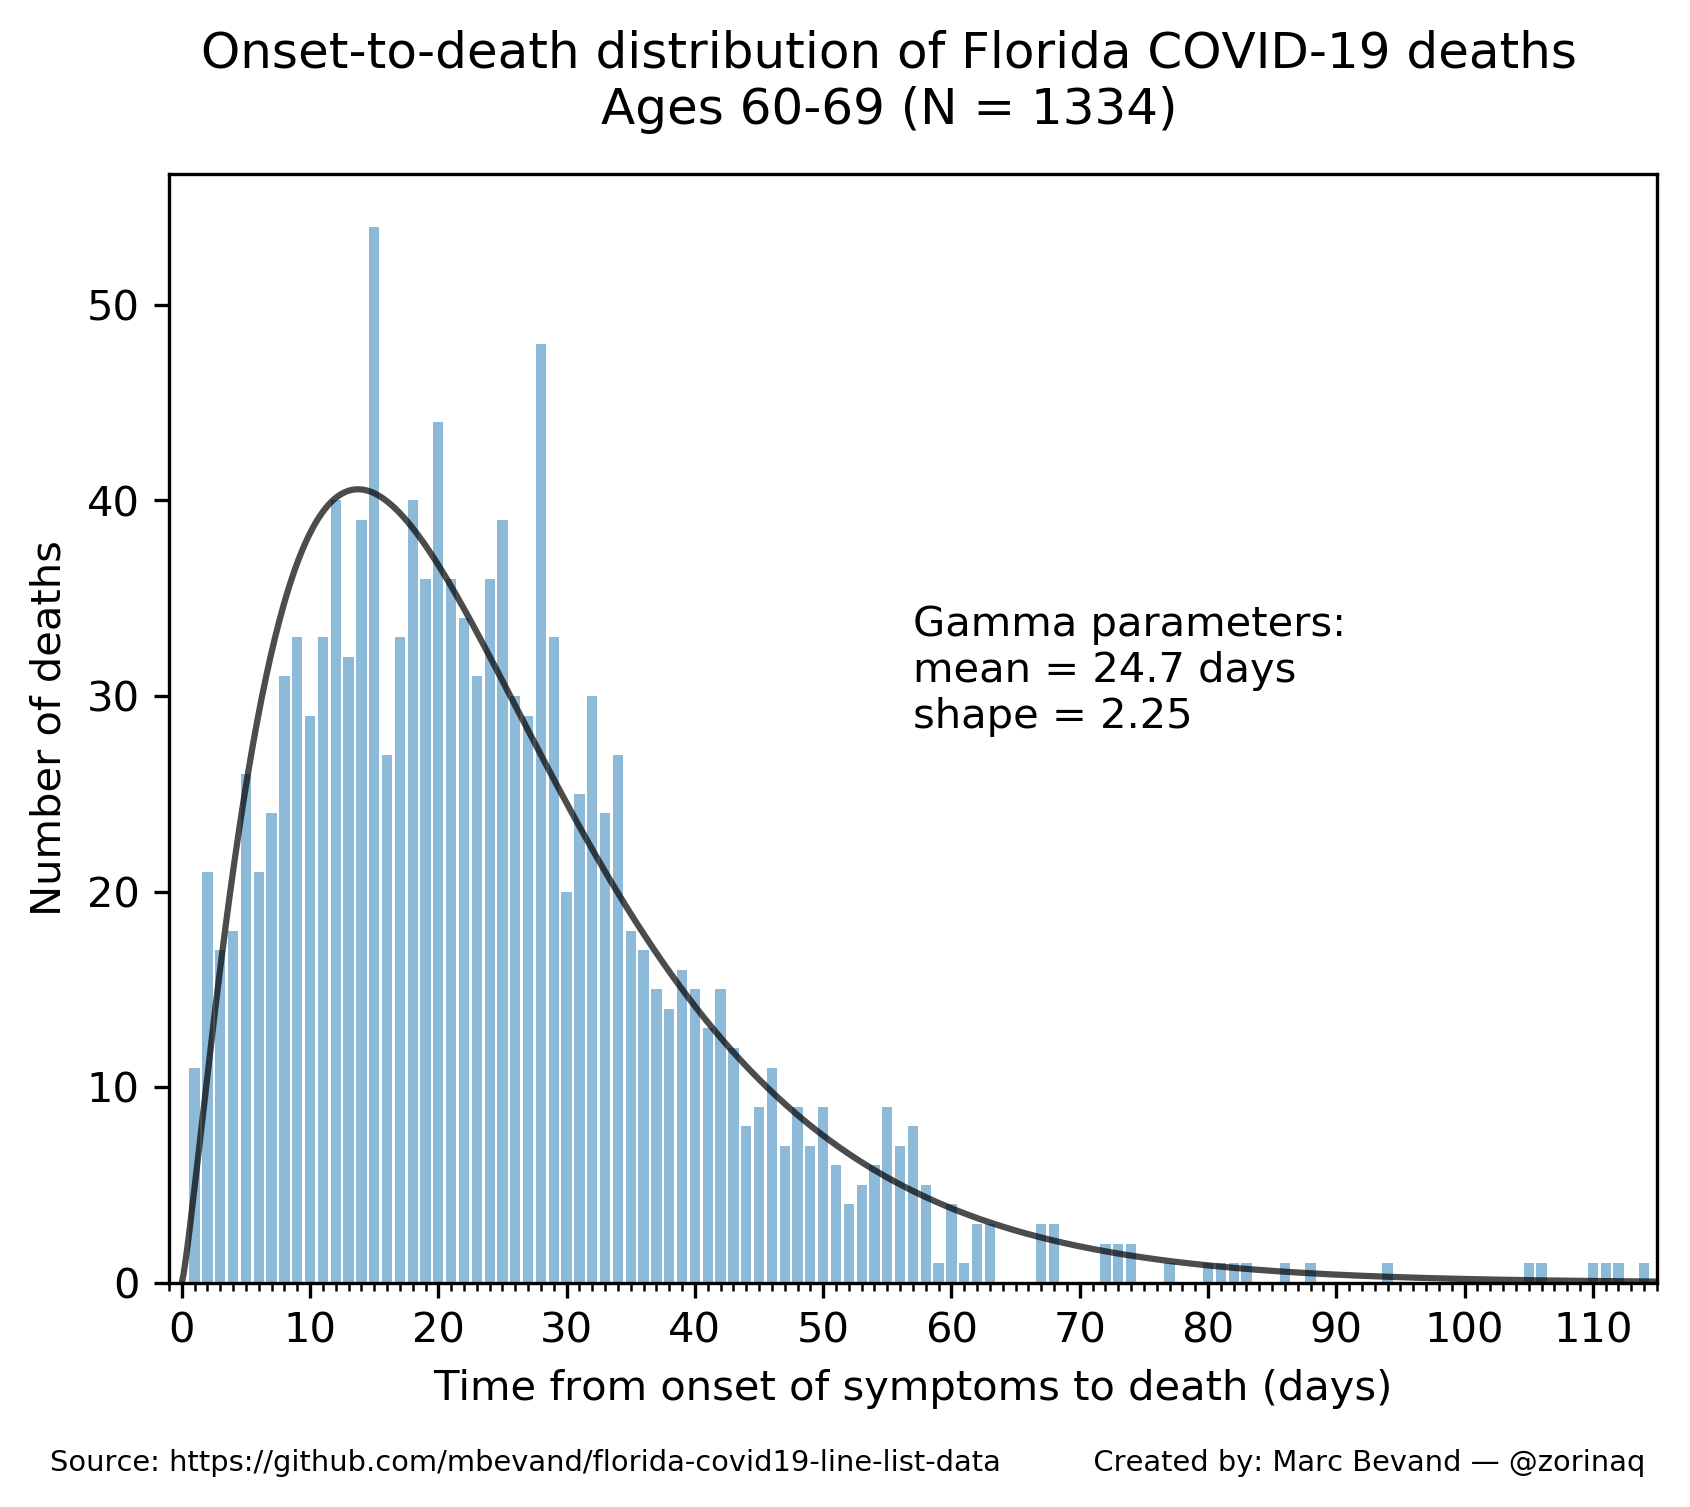
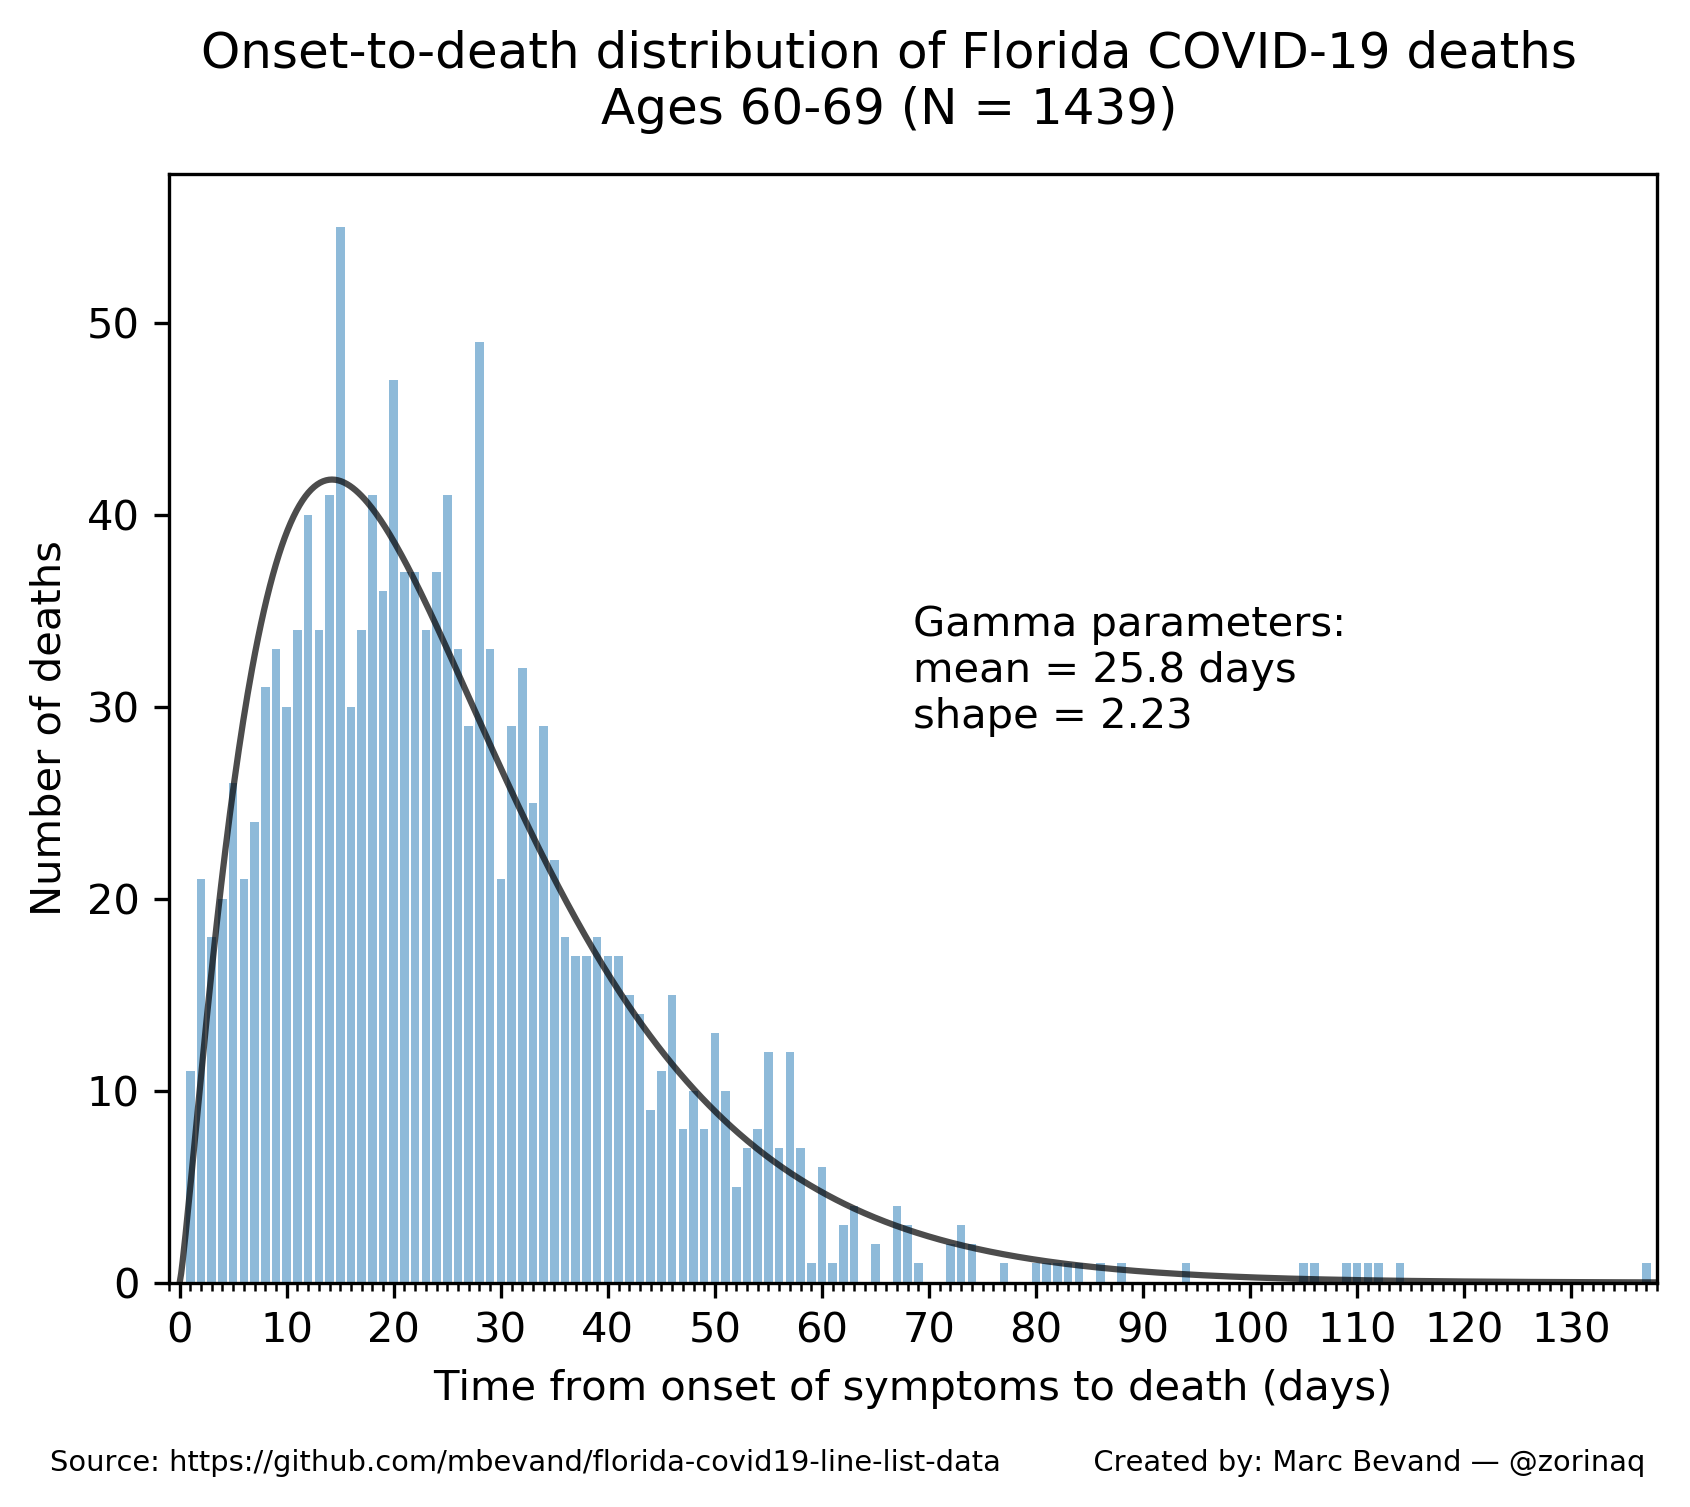
new gamma distribution

diff --git a/age_stratified_cfr.py b/age_stratified_cfr.py
@@ -218,7 +218,7 @@ def main():
         data[date][b].deaths += 1 if died else 0
         data[date][b].cases += 1
     # Parameters of the Gamma distribution of onset-to-death, calculated by gamma.py
-    mean, shape = 23.2, 2.05
+    mean, shape = 24.0, 2.02
     calc_cfr(data, mean, shape)
     #print_stats(data)
     gen_chart(data, mean, shape)

diff --git a/forecast_deaths.py b/forecast_deaths.py
@@ -24,7 +24,7 @@ csv_deaths_occurred = 'data_deaths/deaths_by_date_of_death.csv'
 deaths_occurred_ignore_days = 2
 
 # Mean time (in days) from onset of symptoms to death, calculated by gamma.py
-o2d = 23.2
+o2d = 24.0
 
 # Number of days to calculate the simple moving average of the chart curves
 avg_days = 7

diff --git a/README.md b/README.md
@@ -103,13 +103,13 @@ important that we feed it CFR estimates, not IFR estimates. Infection Fatality
 Ratios take into account *undetected* cases and thus would not be consistent
 with line list data.
 
-Then the script assumes death occurs on average 23.2 days after infection,
+Then the script assumes death occurs on average 24.0 days after infection,
 which is the mean onset-to-death time calculated by `gamma.py`.
 
 Finally, it charts the forecast (`forecast_deaths.png`). The curves are all
 smoothed with a 7-day simple moving average.
 
-The end result is a simple tool that can not only predict deaths up to ~23.2
+The end result is a simple tool that can not only predict deaths up to ~24.0
 days ahead of time, but can also estimate *past* deaths accurately: notice how
 the colored curves in the generated chart follow closely the observed deaths.
 
@@ -262,70 +262,75 @@ Parsing data_fdoh/2020-08-24-08-00-18.csv
 Parsing data_fdoh/2020-08-25-07-53-22.csv
 Parsing data_fdoh/2020-08-26-07-53-06.csv
 Parsing data_fdoh/2020-08-27-07-50-53.csv
+Parsing data_fdoh/2020-08-28-07-43-14.csv
+Parsing data_fdoh/2020-08-29-08-08-09.csv
+Parsing data_fdoh/2020-08-30-09-58-03.csv
+Parsing data_fdoh/2020-08-31-07-43-19.csv
+Parsing data_fdoh/2020-09-01-10-43-29.csv
 
 Ages 0-29:
-Number of deaths: 52
+Number of deaths: 55
 Gamma distribution params:
-mean = 17.8
-shape = 1.66
+mean = 18.5
+shape = 1.63
 
 Ages 30-39:
-Number of deaths: 99
+Number of deaths: 101
 Gamma distribution params:
-mean = 21.1
-shape = 1.49
+mean = 21.0
+shape = 1.43
 
 Ages 40-49:
-Number of deaths: 246
+Number of deaths: 258
 Gamma distribution params:
-mean = 26.8
-shape = 2.00
+mean = 27.8
+shape = 1.99
 
 Ages 50-59:
-Number of deaths: 611
+Number of deaths: 643
 Gamma distribution params:
-mean = 26.1
-shape = 2.02
+mean = 26.8
+shape = 2.01
 
 Ages 60-69:
-Number of deaths: 1334
+Number of deaths: 1439
 Gamma distribution params:
-mean = 24.7
-shape = 2.25
+mean = 25.8
+shape = 2.23
 
 Ages 70-79:
-Number of deaths: 2149
+Number of deaths: 2293
 Gamma distribution params:
-mean = 23.6
-shape = 2.20
+mean = 24.3
+shape = 2.18
 
 Ages 80-89:
-Number of deaths: 2415
-Gamma distribution params:
-mean = 22.5
-shape = 2.02
-
-Ages 90+:
-Number of deaths: 1304
-Gamma distribution params:
-mean = 20.4
-shape = 1.92
-
-All ages:
-Number of deaths: 8210
+Number of deaths: 2590
 Gamma distribution params:
 mean = 23.2
-shape = 2.05
+shape = 1.99
+
+Ages 90+:
+Number of deaths: 1384
+Gamma distribution params:
+mean = 21.3
+shape = 1.86
+
+All ages:
+Number of deaths: 8763
+Gamma distribution params:
+mean = 24.0
+shape = 2.02
 ```
 
-The overall (all ages) mean of 23.2 days is comparable to other published estimates, however our
-distribution is wider (ie. smaller shape parameter of 2.05) because many deaths
+The overall (all ages) mean of 24.0 days is comparable to other published estimates, however our
+distribution is wider (ie. smaller shape parameter of 2.02) because many deaths
 occur in the long tail:
 * mean 17.8 days, shape 4.94 = 0.45<sup>-2</sup>, based on sample of 24 deaths: [Estimates of the severity of coronavirus disease 2019: a model-based analysis][verity]
 * mean 15.1 days, shape 5.1, based on sample of 3 deaths: [Estimating case fatality ratio of COVID-19 from observed cases outside China][althaus]
 
 We believe our distribution parameters are more accurate because
-they are based on a much larger sample of 8210 deaths. The long tail
+they are based on a much larger sample of 8763 deaths. The long tail
 may be the result of improved treatments that can maintain patients
 alive for a longer time.
 
